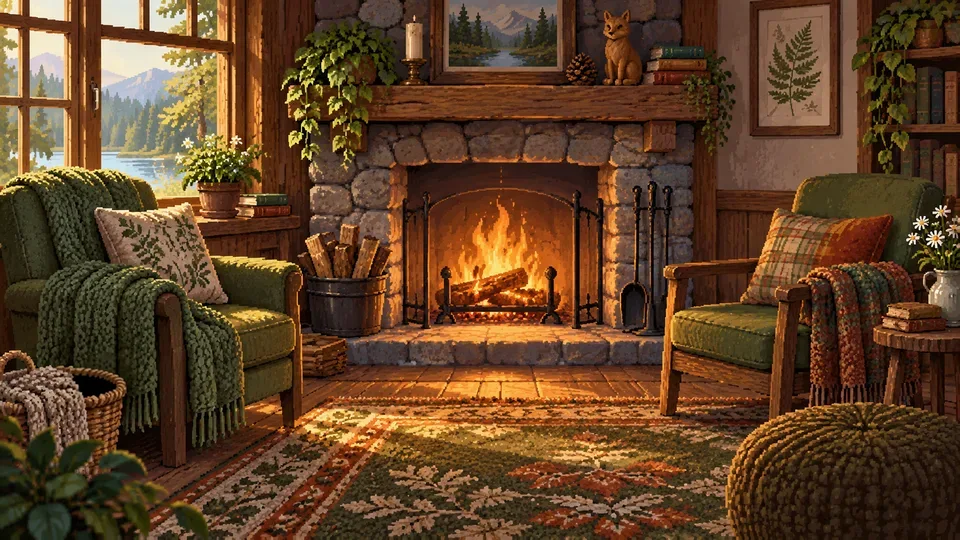
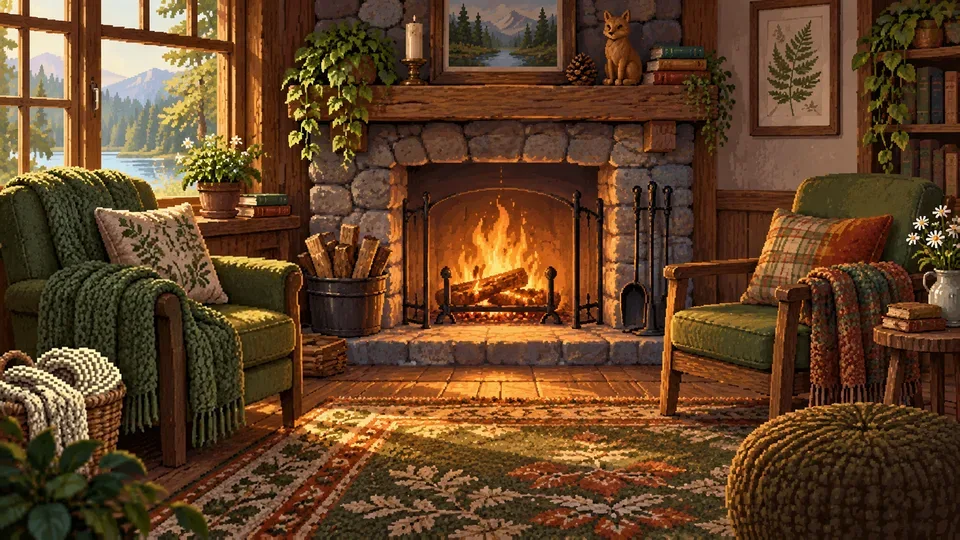
Repair two fills from the original art after review rejected them
A container restart killed the reviews for three pet removals that had
already shipped on my own inspection. Re-running those reviews failed two,
and both failed the same way rather than by bad luck: each had been
repaired from the already-damaged file, so the model could not see the
surface it was told to continue and invented one.

The dog on the hearth rug had become a wedge of bare floorboards in an
orange brighter than anything else in the lower half of the frame, brighter
even than floor nearer the fire, so the lighting read backwards. The
hedgehog in the basket had become a flat near-black region several times
larger than the darkest patch the painting itself contains, which left the
blanket propped against the rim of an empty basket.

Re-running each edit against the pre-repair art, where the real rug and the
real blanket still sit beside the creature, fixed both in a single call.
The rug now continues with its own muted field, blue-grey band and cream
motifs at the corner's true shadow value, and the basket is full of the
same cream knitted blanket.

Both documents now carry the rule, because it will catch the next person:
repair from the original, never from a damaged intermediate, and judge a
fill by whether it draws the eye. The failures also argue for keeping the
reviewer separate from the artist, since both bad fills removed their
creature completely and looked competent until they were measured against
the values the rest of the painting holds.
[…]

Changed region(s): [[0.0, 0.6222, 0.125, 0.8296]]

diff --git a/docs/ART_COVERAGE_REVIEW_2026-09-19.md b/docs/ART_COVERAGE_REVIEW_2026-09-19.md
@@ -71,6 +71,16 @@ A second player note asked whether the backgrounds match the rooms the residents
 
 An independent audit then checked all 189 illustrations against these locations and flagged eight, six of them genuine: a trapdoor onto a cellar well in a parlour floor, a fish tank on a kitchen sideboard, a goldfish bowl on a porch table, and three underwater pages that kept enough of a tank rim to still read as a view from outside the glass. All six were corrected.
 
+## What the verification caught
+
+Three of the pet removals shipped on the maintainer's own inspection when a container restart killed their reviews mid-flight. Re-running those reviews failed two of them, and both failures were the same mistake rather than bad luck.
+
+Each had been repaired from the already-damaged file, so the model could not see the surface it was told to continue and invented one instead. The dog on the hearth rug became a wedge of bare floorboards in a hot orange that measured brighter than anything else in the lower half of the frame, including floor nearer the fire, so the lighting read backwards. The hedgehog in the basket became a flat near-black region six times larger than the biggest dark patch anywhere in the untouched painting, and the blanket beside it then read as propped against the rim of an empty basket. In both cases the drafting was clean; it was the surface that was wrong.
+
+Re-running each edit against the pre-repair art, where the real rug and the real blanket still sit beside the creature, fixed both in a single call. The rule is in [the asset README](../mobile/assets/story/README.md): repair from the original, and judge a fill by whether it draws the eye.
+
+This is also the argument for keeping the reviewer separate from the artist. Both bad fills removed their creature completely and looked competent in isolation; what condemned them was measuring the repaired area against the values the rest of the painting holds.
+
 ## Verification scope
 
 This review used the authored story inventory, source code, exported artwork, and per-scene contact sheets. Current image hashes are recorded in the review manifest; content-preserving alpha flattening retained the original semantic approvals. Persistent decision-scene portraits are implemented separately from the page illustration. This report does not claim a native Android visual walkthrough, touch-interaction validation, or pixel-exact correspondence between independent illustrations.

diff --git a/mobile/assets/story/README.md b/mobile/assets/story/README.md
@@ -89,6 +89,18 @@ resize, parchment flatten, WebP q83 effort 4) and recording the model, prompt,
 window, cost and previous hash under `retouches` in
 `scripts/story/generation/<id>.json`, plus the new hash in `visual-review.json`.
 
+Repair from the ORIGINAL, never from a damaged intermediate. Two removals in
+this pass were rejected on their first attempt and both failed the same way:
+the model was handed an image whose defect had already been cut out, could not
+see the surface it was meant to continue, and invented one. A dog on a hearth
+rug became a wedge of bare floorboards, in a hot orange brighter than anything
+else in the lower half of the frame; a hedgehog in a basket became a flat black
+void larger than any dark patch the painting itself contains. Re-running each
+edit with `--source` pointing at the pre-repair art, where the real rug and the
+real blanket are still visible beside the creature, fixed both on one call.
+Judge a fill by whether it draws the eye: an in-key repair disappears, and an
+invented surface announces itself even when the drafting is clean.
+
 Match the setting to the place the game itself shows. The Aquarium Room is the
 inside of a planted tank, so Axel's scenes are underwater; the Offering Pit is
 an outdoor rock-rimmed hole in a forest clearing, not a cellar well; and Chill's
